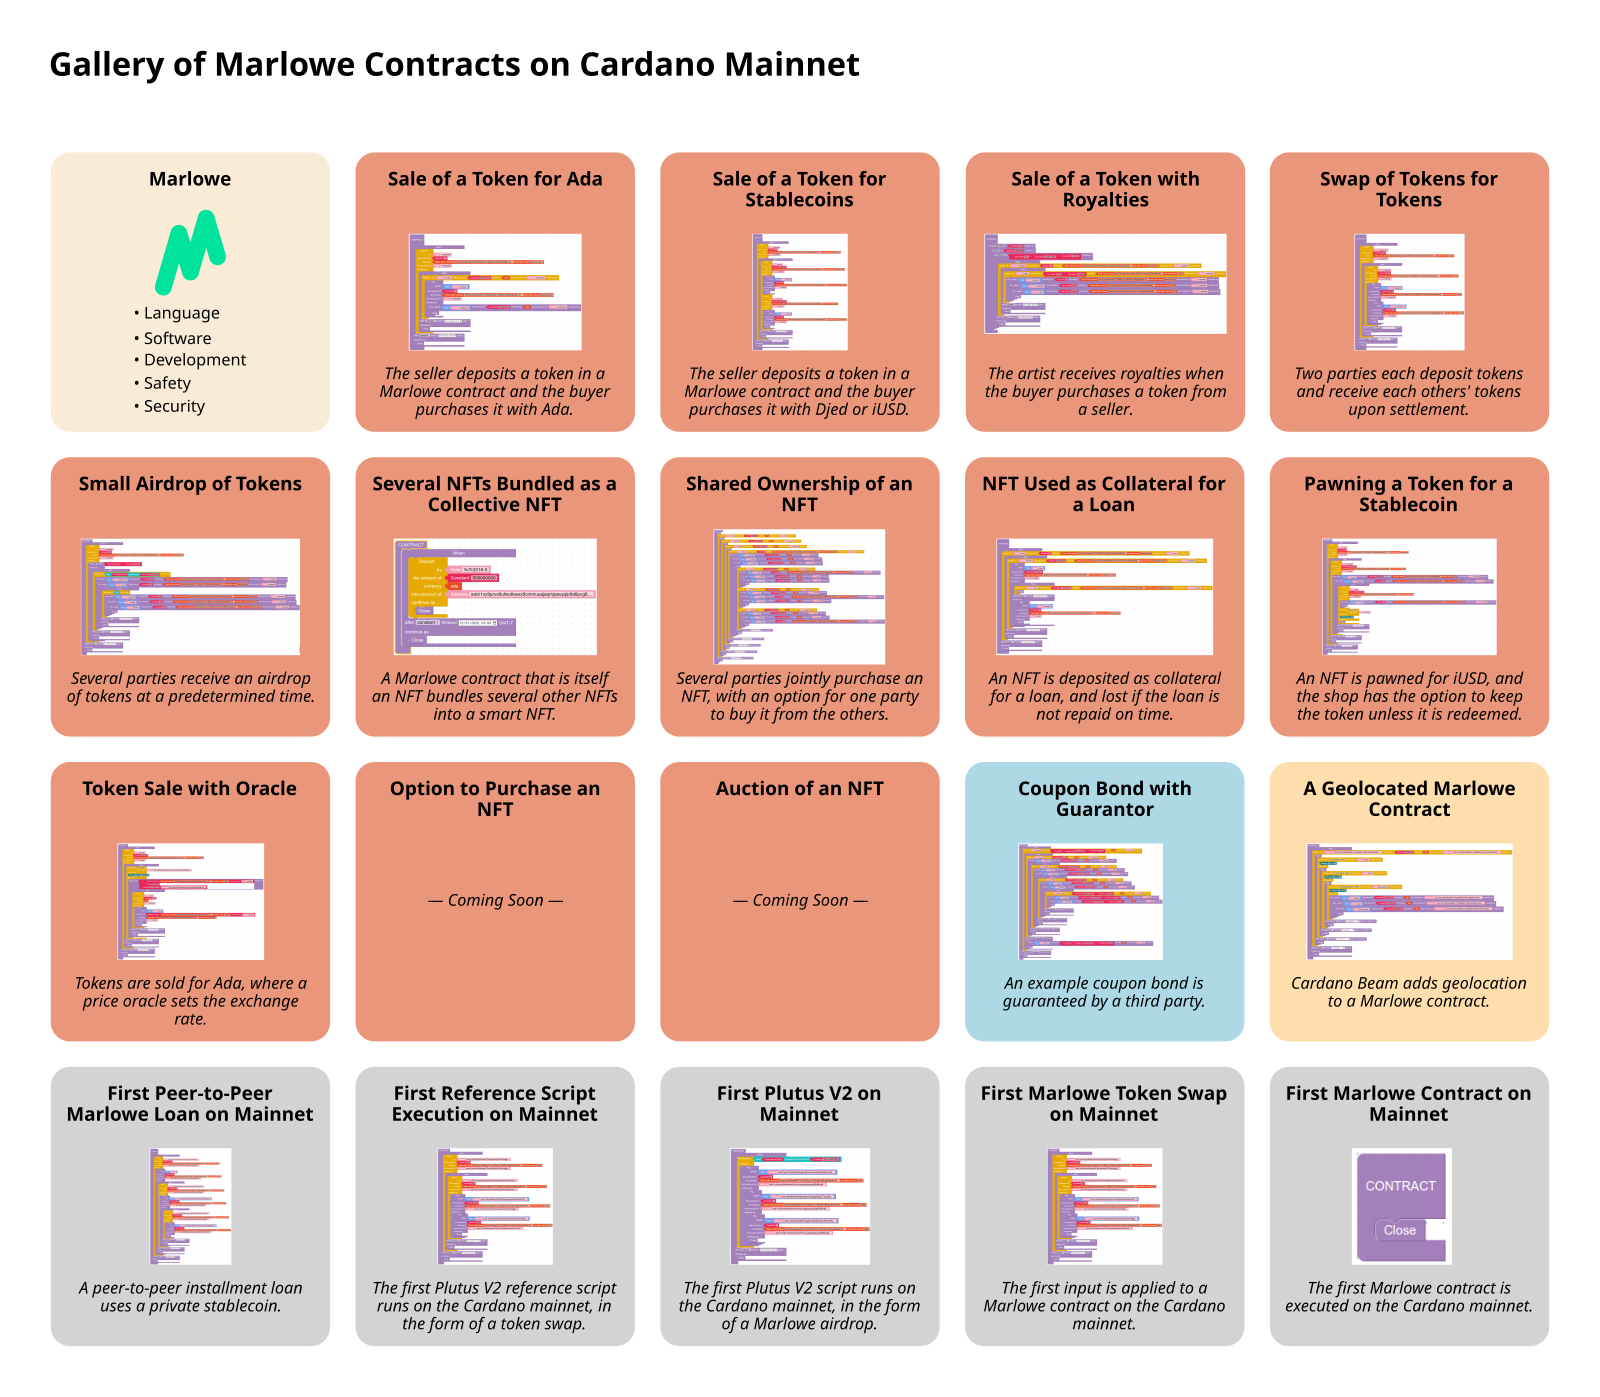
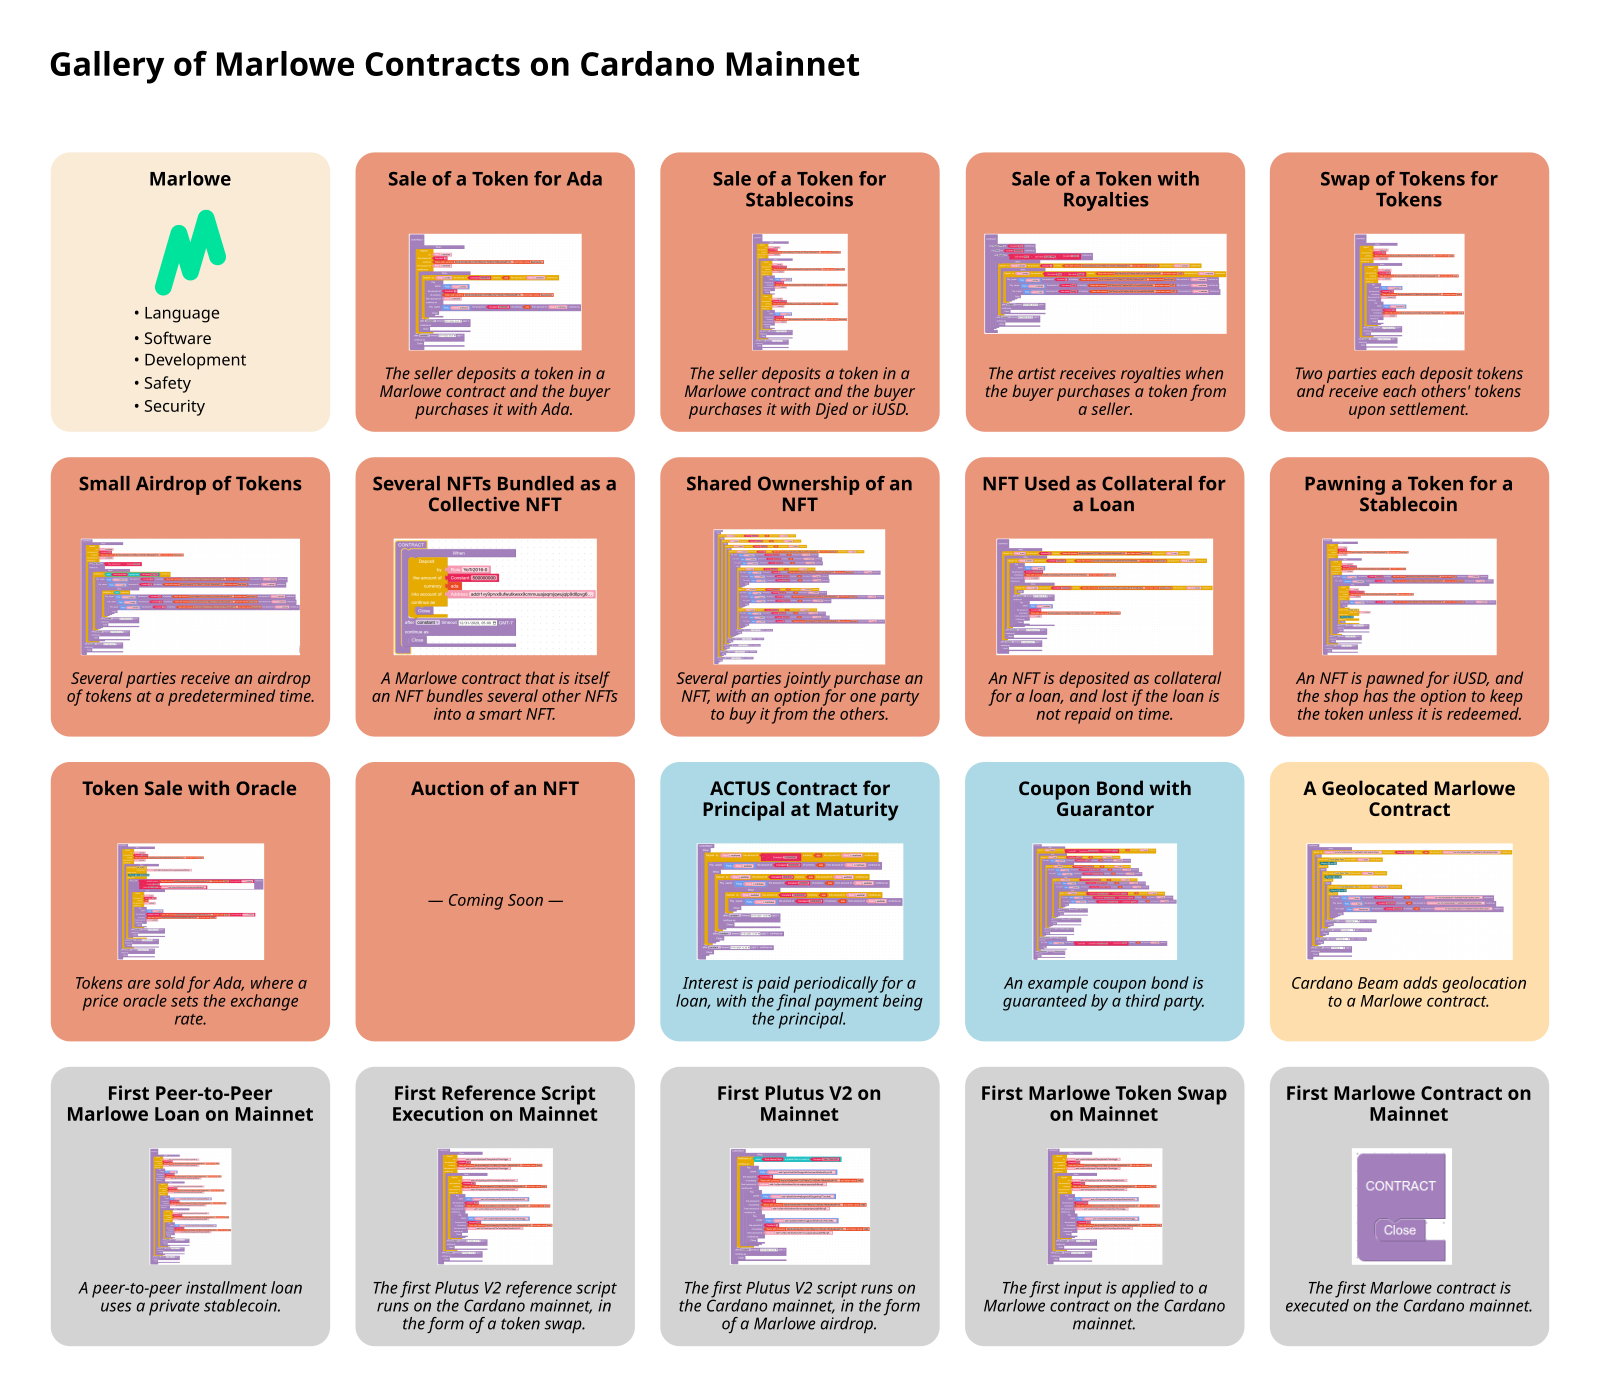
Updated index to include ACTUS PAM.

Changed region(s): [[0.4062, 0.5233, 0.5938, 0.7695], [0.625, 0.5848, 0.75, 0.7079], [0.25, 0.554, 0.375, 0.5848]]

diff --git a/ReadMe.md b/ReadMe.md
@@ -28,6 +28,7 @@ Click on the image below to navigate to individual contracts.
 | [NFT Used as Collateral for a Loan](nfts/collateral/ReadMe.ipynb) | ![Contract](nfts/collateral/contract.png) | An NFT is deposited as collateral for a loan, and lost if the loan is not repaid on time. |
 | [Pawning a Token for a Stablecoin](nfts/pawn/ReadMe.ipynb) | ![Contract](nfts/pawn/contract.png) | An NFT is pawned for iUSD, and the shop has the option to keep the token unless it is redeemed. |
 | [Token Sale with Oracle](nfts/oracle/ReadMe.ipynb) | ![Contract](nfts/oracle/contract.png) | Tokens are sold for Ada, where a price oracle sets the exchange rate. |
+| [ACTUS Contract for Principal at Maturity](realfi/actus/actus-pam.ipynb) | ![Contract](realfi/actus/actus-pam-1.png) | Interest is paid periodically for a loan, with the final payment being the principal. |
 | [Coupon Bond with Guarantor](realfi/coupon-bond-guaranteed/ReadMe.ipynb) | ![Contract](realfi/coupon-bond-guaranteed/contract.png) | An example coupon bond is guaranteed by a third party. |
 | [A Geolocated Marlowe Contract](defi/beamer/ReadMe.ipynb) | ![Contract](defi/beamer/contract.png) | Cardano Beam adds geolocation to a Marlowe contract |
 | [First Peer-to-Peer Marlowe Loan on Mainnet](firsts/loan/ReadMe.ipynb) | ![Contract](firsts/loan/contract.png) | A peer-to-peer installment loan uses a private stablecoin. |
